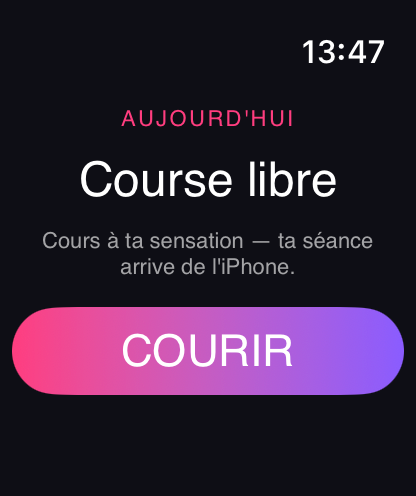
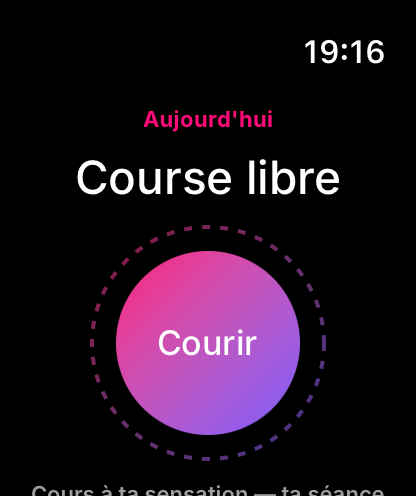
Les trois captures de montre entrent dans le dépôt, et elles montrent l'app
Run 5 de « Capture de la montre » sur a0d27d0, vert de bout en bout. Le paquet
construit porte enfin ce que project.yml lui promettait :

    fr : « Courir » → Courir      ✓ Inter-Medium.ttf
    en : « Courir » → Run         ✓ Inter-Bold.ttf
    es : « Courir » → Correr      ✓ Inter-SemiBold.ttf

Les trois images ouvertes une par une : « Aujourd'hui / Course libre / Courir »,
« Today / Free run / Run », « Hoy / Carrera libre / Correr ». Comparées à celles
d'avant sous la barre d'état — donc sans compter l'horloge — 23,6 % des pixels
ont changé et la graisse d'« Aujourd'hui » n'est plus la même : ce n'est pas
seulement la langue qui a bougé, c'est le rendu.

`appstore/requis/montre/` porte maintenant trois images au lieu d'une, chacune
avec l'empreinte de sa source ET celle du code qui l'a dessinée. L'entrée
`source: null` de SOURCES.json — celle qui portait le constat « faite à la main,
et ne montre pas l'app », avec le bouton pilule que le code ne dessine plus
depuis le 6 août — a disparu.

DEUX ÉCARTS AVEC LA DA, VUS SUR CETTE IMAGE ET NON CORRIGÉS

Ce chantier était la livraison des ressources ; ces deux-là sont des décisions
de design et attendent la phase 2 :

1. Le bouton « Courir » est un dégradé rose → violet, en plein milieu de
   l'interface. La règle 7 dit « pas de dégradés dans l'interface », et la DA
   réserve ce dégradé à l'icône, au splash et au logo. L'accent d'action est
   #F0225F, plat. C'est l'élément principal de l'écran.
[…]

diff --git a/PROGRESS.md b/PROGRESS.md
@@ -488,11 +488,43 @@ exige que chaque police de l'`UIAppFonts` soit présente dans le paquet.
 disent qu'une déclaration VALIDE ne sonne pas, parce qu'un garde-fou qui refuse tout est aussi
 inutile qu'un garde-fou qui accepte tout.
 
+### Ce que la chaîne a rendu, une fois corrigé
+
+Run 5 de « Capture de la montre », commit `a0d27d0`, vert de bout en bout. Le paquet construit :
+
+```
+fr : « Courir » → Courir      ✓ Inter-Medium.ttf
+en : « Courir » → Run         ✓ Inter-Bold.ttf
+es : « Courir » → Correr      ✓ Inter-SemiBold.ttf
+```
+
+Les trois captures ouvertes une par une : « Aujourd'hui / Course libre / Courir », « Today / Free
+run / Run », « Hoy / Carrera libre / Correr ». Comparées à celles d'avant sous la barre d'état,
+**23,6 % des pixels ont changé** et la graisse d'« Aujourd'hui » n'est plus la même : ce n'est pas
+seulement la langue qui a bougé, c'est le rendu.
+
+`appstore/requis/montre/` porte désormais **trois** images au lieu d'une, chacune avec l'empreinte
+de sa source ET l'empreinte du code qui l'a dessinée. L'entrée `source: null` de `SOURCES.json` —
+celle qui portait le constat « faite à la main, et ne montre pas l'app » — a disparu.
+
 ### Ce que ça invalide
 
 Toutes les captures de montre prises jusqu'ici montrent une app dans la mauvaise police et dans la
 mauvaise langue. La note donnée à l'écran de course au poignet dans `AUDIT.md` § 9 a été mise sur
 une image qui n'était pas celle de l'app. **Elle est à refaire.**
+
+### Deux écarts avec la DA, vus sur l'image d'aujourd'hui et NON corrigés
+
+Ce chantier-ci était la livraison des ressources. Ces deux-là sont des décisions de design, donc
+ils attendent la phase 2 :
+
+1. **Le bouton « Courir » est un dégradé rose → violet, en plein milieu de l'interface.** La règle
+   7 dit « pas de dégradés dans l'interface », et la DA réserve le dégradé rose-violet à l'icône,
+   au splash et au logo. L'accent d'action est `#F0225F`, plat. C'est l'élément le plus important
+   de l'écran, et c'est l'infraction la plus visible du produit.
+2. **La phrase du bas est coupée par le bord de l'écran, dans les trois langues** : « Cours à ta
+   sensation — ta séance », « Run by feel — your session is on its », « Corre a tu ritmo; tu sesión
+   llega ». Aucune des trois ne finit.
 
 ### Ce qui reste ouvert
 

diff --git a/AUDIT.md b/AUDIT.md
@@ -410,6 +410,27 @@ iPhone**, et c'est ce qui rend la correction sans risque de ce côté.
    chacune des trois langues, exige que « Courir » rende **trois valeurs différentes**, et exige
    que chaque police de l'`UIAppFonts` soit dans le paquet. 29 cas dans `test_spec.py`.
 
+### Ce que la chaîne a rendu, une fois corrigé
+
+Run 5 de « Capture de la montre », commit `a0d27d0`, vert de bout en bout. Dans le paquet :
+`fr → Courir`, `en → Run`, `es → Correr`, et les trois Inter présentes. Les trois images ouvertes
+une par une : « Aujourd'hui / Course libre / Courir », « Today / Free run / Run », « Hoy / Carrera
+libre / Correr ». **23,6 % des pixels sous la barre d'état ont changé** par rapport à l'avant :
+ce n'est pas seulement la langue, c'est le rendu.
+
+`appstore/requis/montre/` porte maintenant trois images au lieu d'une, chacune avec l'empreinte de
+sa source et celle du code qui l'a dessinée. L'entrée `source: null` qui portait « faite à la main,
+et ne montre pas l'app » a disparu.
+
+### Deux écarts avec la DA, vus sur cette image et NON corrigés
+
+1. **Le bouton « Courir » est un dégradé rose → violet, en plein milieu de l'interface.** Règle 7 :
+   pas de dégradés dans l'interface. DA : le dégradé rose-violet ne va que sur l'icône, le splash
+   et le logo. L'accent d'action est `#F0225F`, plat. C'est l'élément principal de l'écran.
+2. **La phrase du bas est coupée par le bord, dans les trois langues.** Aucune des trois ne finit.
+
+Ce sont des décisions de design, pas de la livraison de ressources : elles attendent la phase 2.
+
 ### Ce que ça change pour la phase 2
 
 Toutes les captures de montre prises jusqu'ici montrent une app dans la mauvaise police et dans
